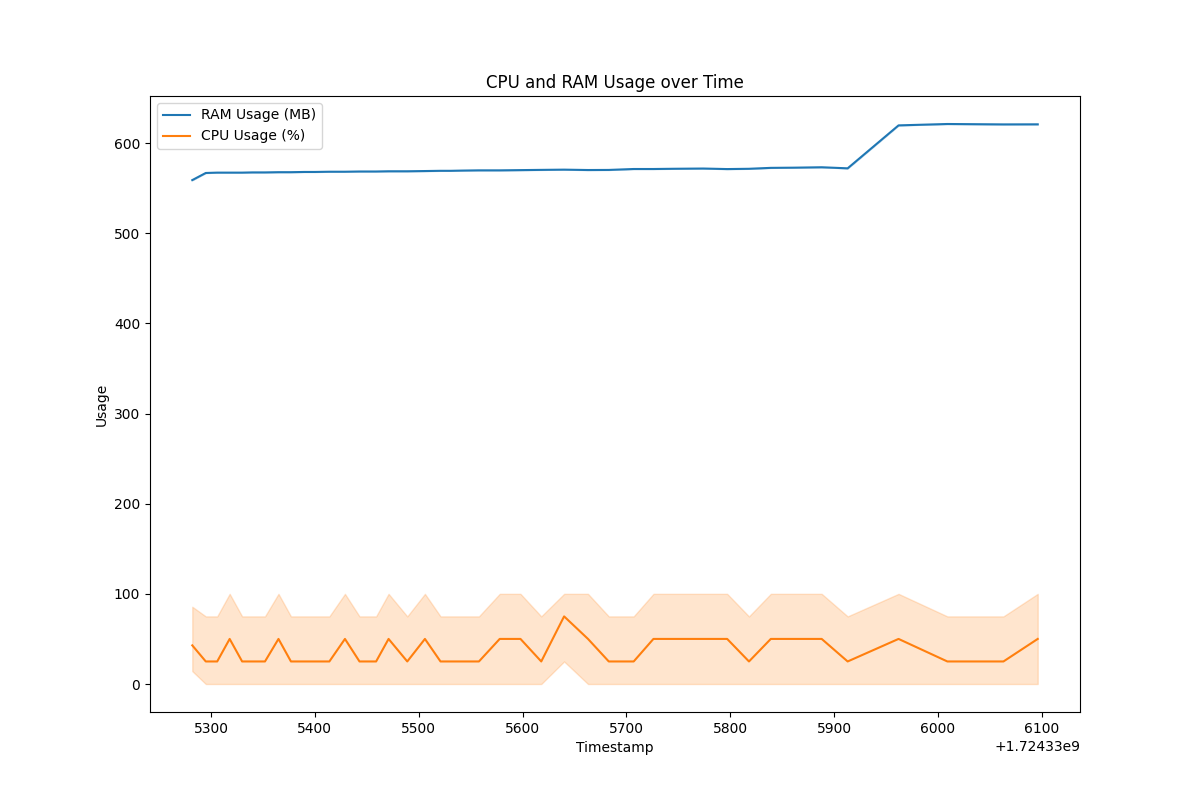
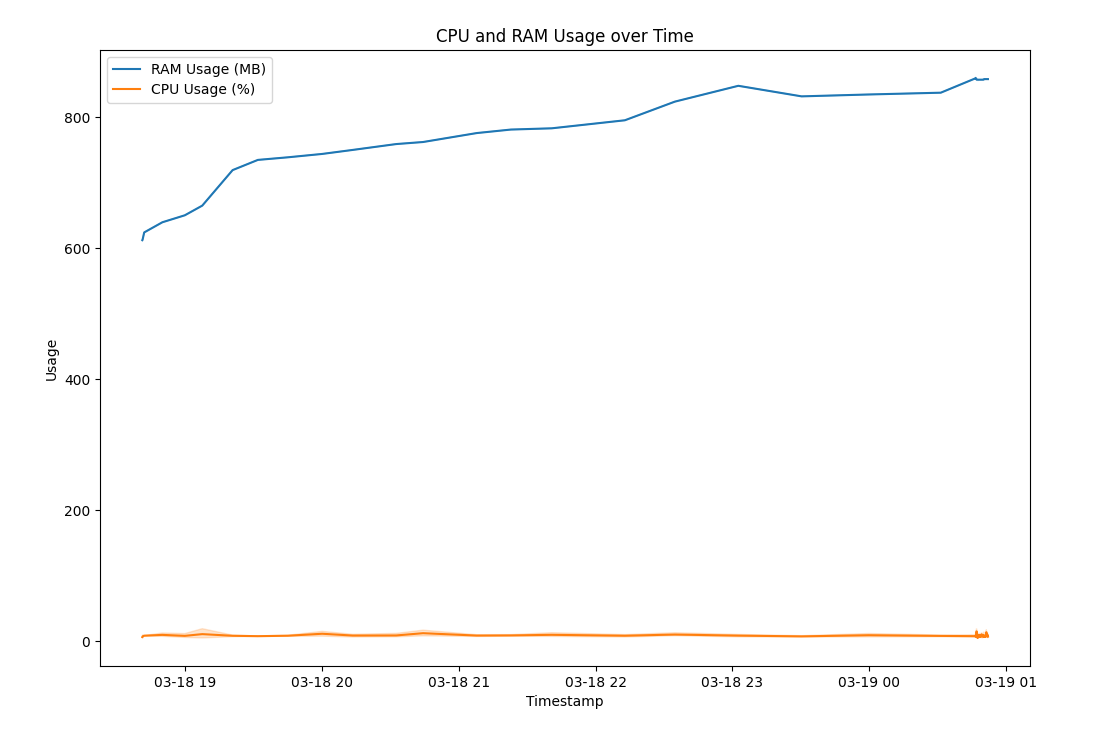
new imgs

diff --git a/.omniopt_plot_cpu_ram_usage.py b/.omniopt_plot_cpu_ram_usage.py
@@ -69,6 +69,8 @@ def plot_graph(dataframe: pd.DataFrame, save_to_file: Union[str, None] = None) -
     """Generates and optionally saves/plots the graph."""
     plt.figure(figsize=(12, 8))
 
+    dataframe['timestamp'] = pd.to_datetime(dataframe['timestamp'], unit='s')
+
     # Plot RAM usage over time
     sns.lineplot(x='timestamp', y='ram_usage_mb', data=dataframe, label='RAM Usage (MB)')
     # Plot CPU usage over time
